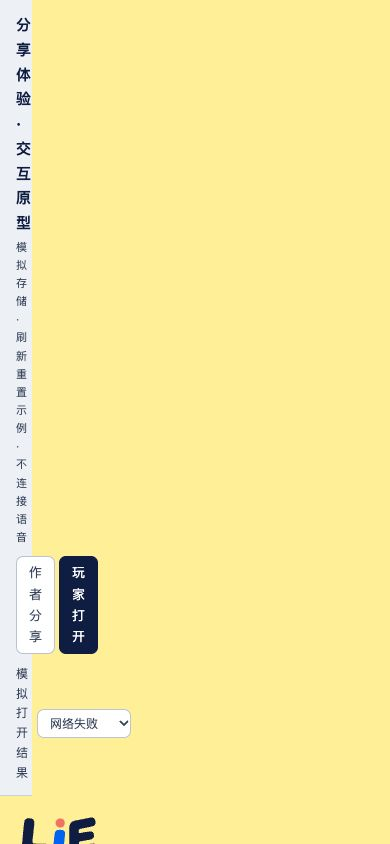
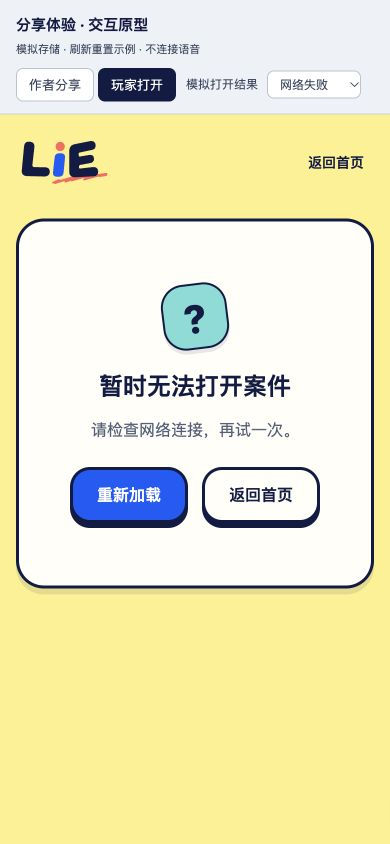
design: isolate async copy feedback and correct error evidence

diff --git a/design/share-storage-demo/ShareDemo.test.ts b/design/share-storage-demo/ShareDemo.test.ts
@@ -1,0 +1,64 @@
+import { flushPromises, mount, type VueWrapper } from '@vue/test-utils'
+import { afterEach, beforeEach, describe, expect, it, vi } from 'vitest'
+
+import ShareDemo from './ShareDemo.vue'
+
+const writeText = vi.fn<(text: string) => Promise<void>>()
+let wrapper: VueWrapper
+function button(text: string) {
+  const result = wrapper.findAll('button').find((item) => item.text() === text)
+  if (result == null) throw new Error(`Button missing: ${text}`)
+  return result
+}
+async function openShare() {
+  await button('分享案件').trigger('click')
+  await vi.advanceTimersByTimeAsync(1300)
+}
+beforeEach(() => {
+  vi.useFakeTimers()
+  writeText.mockReset()
+  Object.defineProperty(navigator, 'clipboard', { configurable: true, value: { writeText } })
+  wrapper = mount(ShareDemo, {
+    global: { stubs: {
+      ProductHeader: { template: '<header><slot name="actions" /></header>' },
+      EditorDialog: { template: '<section role="dialog"><button @click="$emit(\'close\')">关闭</button><slot /></section>' },
+    } },
+  })
+})
+afterEach(() => { wrapper.unmount(); vi.useRealTimers() })
+
+describe('share dialog clipboard feedback', () => {
+  it('reports a successful copy', async () => {
+    writeText.mockResolvedValue()
+    await openShare()
+    await button('复制链接').trigger('click')
+    await flushPromises()
+    expect(writeText).toHaveBeenCalledWith(wrapper.get<HTMLInputElement>('input[aria-label="分享链接"]').element.value)
+    expect(button('已复制').exists()).toBe(true)
+  })
+
+  it('keeps an old copy result out of a reopened dialog', async () => {
+    let resolve = () => {}
+    const pending = new Promise<void>((done) => { resolve = done })
+    writeText.mockReturnValue(pending)
+    await openShare()
+    await button('复制链接').trigger('click')
+    await button('关闭').trigger('click')
+    await openShare()
+    resolve()
+    await flushPromises()
+    expect(button('复制链接').exists()).toBe(true)
+  })
+
+  it('clears a failed copy message when retrying successfully', async () => {
+    writeText.mockRejectedValueOnce(new Error('Clipboard denied')).mockResolvedValueOnce()
+    await openShare()
+    await button('复制链接').trigger('click')
+    await flushPromises()
+    expect(wrapper.get('.copy-error').text()).toContain('请选中上方链接手动复制')
+    await button('复制链接').trigger('click')
+    await flushPromises()
+    expect(button('已复制').exists()).toBe(true)
+    expect(wrapper.find('.copy-error').exists()).toBe(false)
+  })
+})

diff --git a/design/share-storage-demo/ShareDemo.vue b/design/share-storage-demo/ShareDemo.vue
@@ -27,20 +27,19 @@ const people = [
 const avatar = (id: string) => `/appearances/${id}/avatar.png`
 const errorMessage = computed(() => playerState.value === 'missing' ? '案件不存在或已不可用' : '暂时无法打开案件')
 let timer: ReturnType<typeof setTimeout> | null = null
+let copyRevision = 0
 function cancelPending() {
   if (timer != null) clearTimeout(timer)
   timer = null
   sharing.value = false
 }
 function author() {
-  cancelPending()
+  closeShare()
   screen.value = 'author'
-  dialog.value = false
   notice.value = null
 }
 function openPlayer() {
-  cancelPending()
-  dialog.value = false
+  closeShare()
   screen.value = 'player'
   playerState.value = 'loading'
   timer = setTimeout(() => {
@@ -49,6 +48,7 @@ function openPlayer() {
 }
 function share() {
   cancelPending()
+  copyRevision++
   copied.value = false
   copyError.value = false
   notice.value = null
@@ -67,12 +67,17 @@ function share() {
   }, 1300)
 }
 async function copy() {
-  try { await navigator.clipboard.writeText(shareUrl); copied.value = true }
-  catch { copyError.value = true }
+  const revision = ++copyRevision
+  copied.value = false
+  copyError.value = false
+  try {
+    await navigator.clipboard.writeText(shareUrl)
+    if (revision === copyRevision) copied.value = true
+  } catch { if (revision === copyRevision) copyError.value = true }
 }
-function closeShare() { cancelPending(); dialog.value = false }
+function closeShare() { cancelPending(); copyRevision++; dialog.value = false }
 function edit() { notice.value = null; closeShare() }
-onUnmounted(cancelPending)
+onUnmounted(closeShare)
 </script>
 
 <template>

diff --git a/design/share-storage-demo/vitest.config.ts b/design/share-storage-demo/vitest.config.ts
@@ -1,0 +1,7 @@
+import vue from '@vitejs/plugin-vue'
+import { defineConfig } from 'vitest/config'
+
+export default defineConfig({
+  plugins: [vue()],
+  test: { environment: 'jsdom', include: ['design/share-storage-demo/*.test.ts'] },
+})

diff --git a/docs/share-storage-ui-demo.md b/docs/share-storage-ui-demo.md
@@ -19,6 +19,7 @@
 ```sh
 npm ci
 node scripts/character-presets.mjs
+node node_modules/vitest/vitest.mjs run --config design/share-storage-demo/vitest.config.ts
 node node_modules/vue-tsc/bin/vue-tsc.js -p design/share-storage-demo/tsconfig.json --noEmit
 node node_modules/vite/bin/vite.js build --config design/share-storage-demo/vite.config.ts
 node node_modules/vite/bin/vite.js --config design/share-storage-demo/vite.config.ts --host 127.0.0.1 --port 5177 --strictPort
@@ -51,3 +52,5 @@ node node_modules/vite/bin/vite.js --config design/share-storage-demo/vite.confi
 用户再次明确将存储说明从编辑页移入分享弹窗：当时说明移至状态和操作区之后；本轮进一步移除分隔线并合并说明，所有分享状态仍共享一次，未增加任何确认步骤。此修订追加提交，不改已交历史。Chrome专属验收页已核桌面/390×844等待、失败、成功和超限状态，说明均在弹窗内仅出现一次，编辑页不显示；移动无横向溢出。截图已同步更新，验收tab关闭且viewport重置；类型/构建检查通过，原5177服务继续供用户审看。
 
 用户认为成功弹窗信息类别与样式过多，本轮合并为三组；等待去掉重复副句，失败去掉重复的草稿保留段落，保留原因与重试/继续编辑。说明为普通小字，不新增图标、确认步骤或组件。旧版设计仍保存在此前提交，用户对照图保存为evidence/review-before-simplification.png。专属Chrome页实测桌面链接/复制同行且保现有输入边框/内距、390px自然堆叠无横向溢出；复制成功、失败重试、等待关闭和超限继续编辑通过，已更新截图并关闭验收页。类型/构建和diff检查通过；原服务保留，正式UI仍待用户批准。
+
+Review补修：复制反馈使用一个轮次counter，新分享、关闭/导航和卸载使旧异步结果失效；每次复制重置错误。沿现有Vitest/Vue Test Utils做3项实际组件测试：正常复制、deferred旧复制在关闭重开后完成不标记新弹窗、失败后重试成功清错误，全部通过，无新增依赖。`evidence/player-network-mobile.jpg`已重拍并目视核见玩家网络失败卡片与重新加载按钮；专属Chrome验后关闭，viewport重置，原服务保持。
